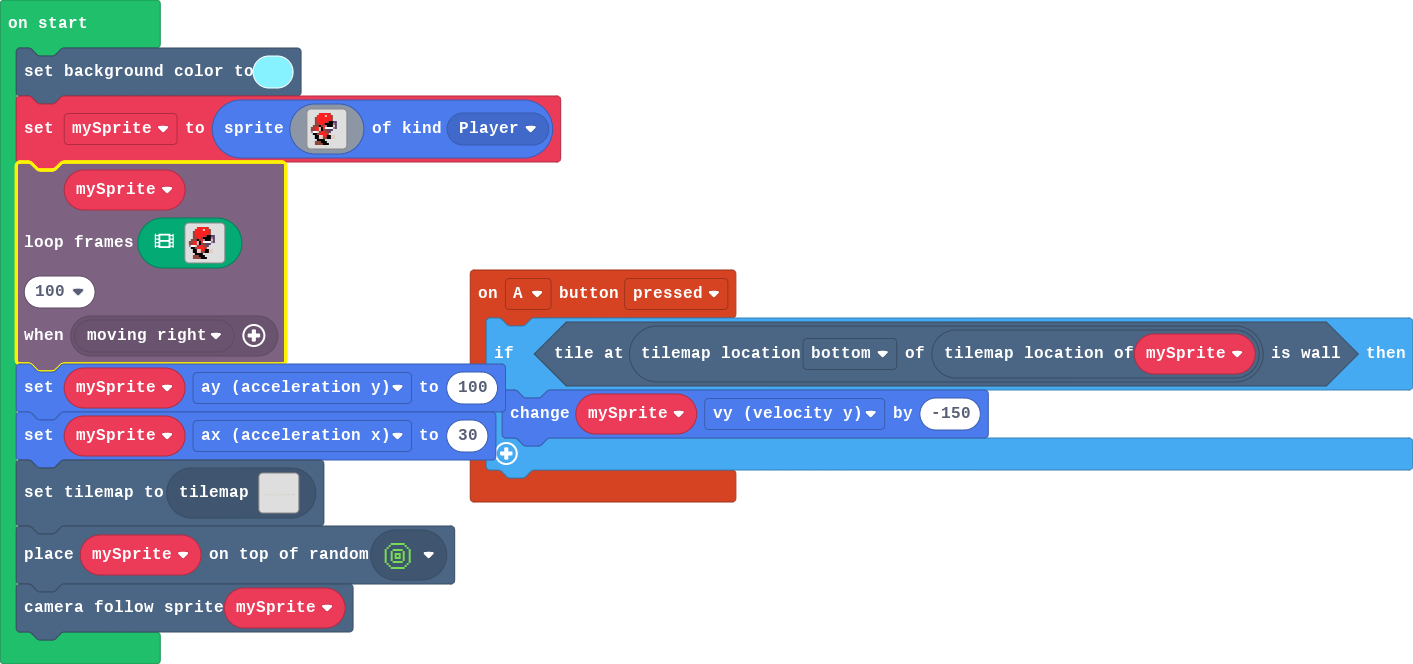
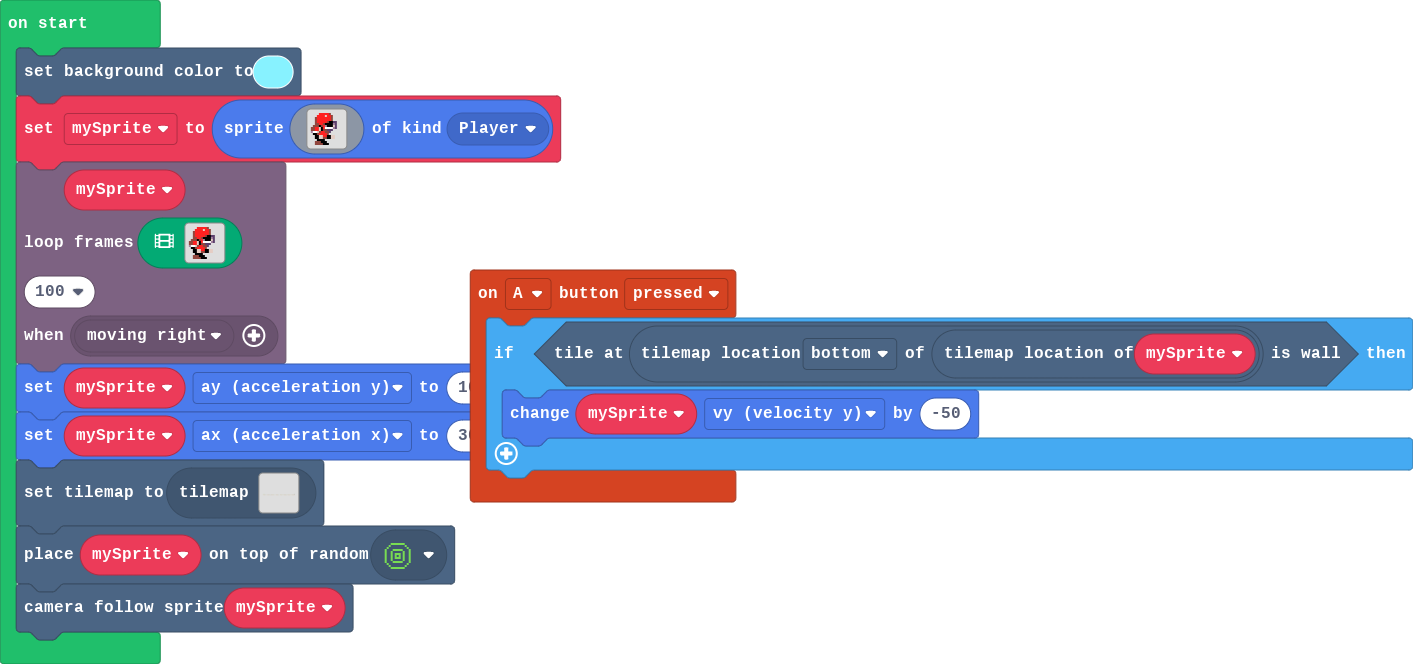
Update main.blocks, main.ts

Changed region(s): [[0.3114, 0.5422, 0.3737, 0.6928], [0.0, 0.241, 0.218, 0.2711], [0.6539, 0.5723, 0.7162, 0.6627]]

diff --git a/main.ts b/main.ts
@@ -1,6 +1,6 @@
 controller.A.onEvent(ControllerButtonEvent.Pressed, function () {
     if (tiles.tileAtLocationIsWall(mySprite.tilemapLocation().getNeighboringLocation(CollisionDirection.Bottom))) {
-        mySprite.vy += -150
+        mySprite.vy += -50
     }
 })
 let mySprite: Sprite = null
